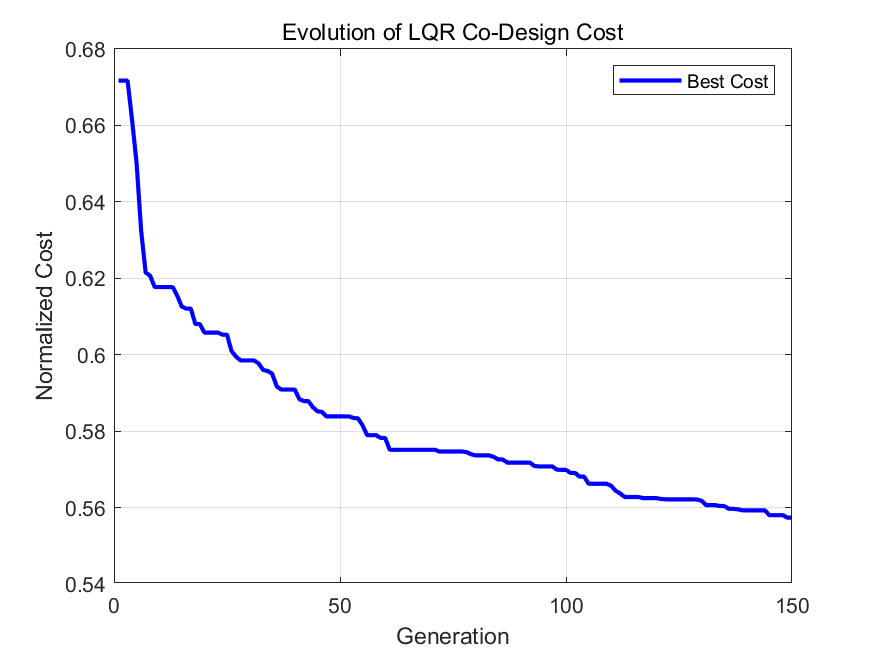
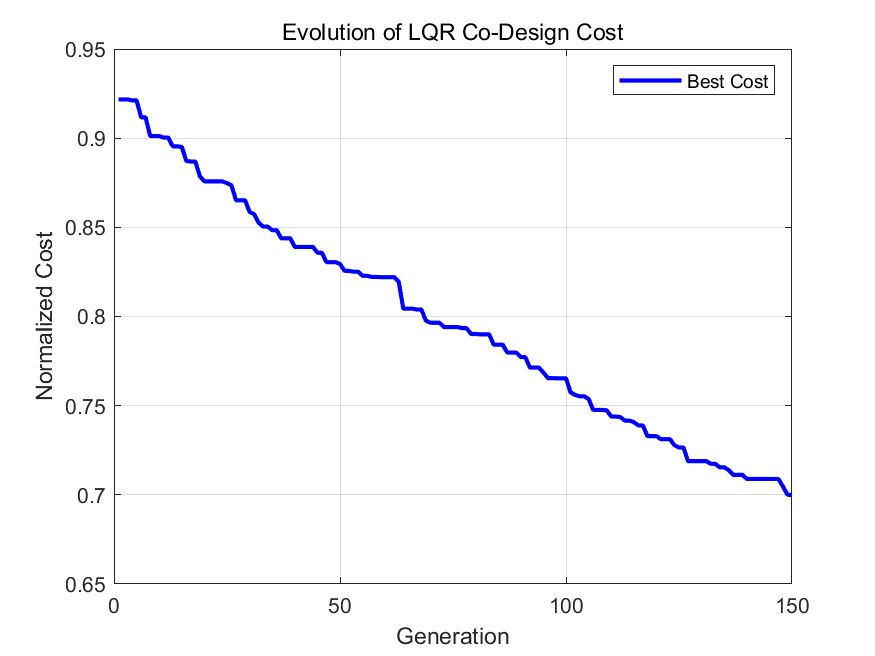
updated

diff --git a/epcn_lqr_codesign.m b/epcn_lqr_codesign.m
@@ -77,7 +77,7 @@ historyBestCost = zeros(maxGen, 1);
 historyAvgCost  = zeros(maxGen, 1);
 historyGen      = 1:maxGen;
 errbuffer       = zeros(maxGen, 1); % Tracks number of unstable individuals
-bestIndividual
+
 %% 5. Main Evolutionary Algorithm Loop (Heavily Modified)
 % =========================================================================
 fprintf('Starting evolution...\n');
